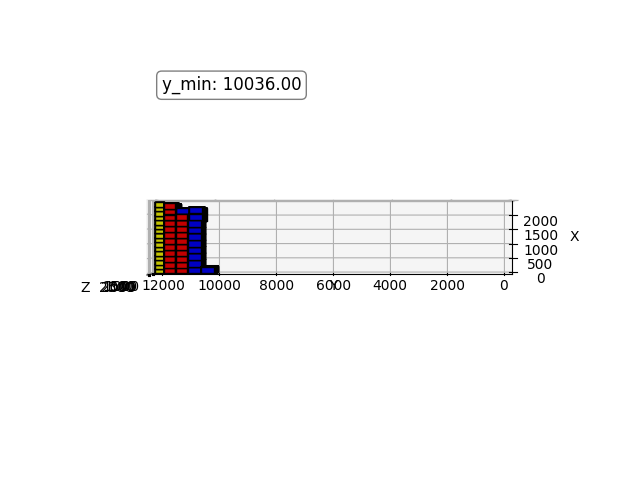
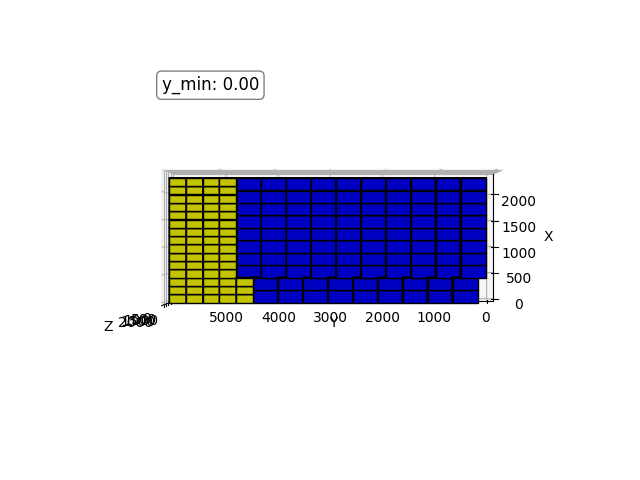
Shows Remaining Homo Strips and Boxes

Changed region(s): [[0.1562, 0.3438, 0.9062, 0.6875], [0.3438, 0.125, 0.5, 0.2188], [0.1562, 0.6562, 0.25, 0.6875]]

diff --git a/app.py b/app.py
@@ -170,7 +170,7 @@ def perform_computation(data,truck_spec):
     df = pd.DataFrame(strip_list)
     df.columns= ['Length','Width','Height','NumOfBoxesPerStrip','TotalNumStrips','Rem_Boxes','TotalCases','Marked', 'Alpha(rotation about Z-axis)','GrossWeight']
     # Drop the 'Marked' column
-    df.drop(columns=['Marked'], inplace=True)
+    # df.drop(columns=['Marked'], inplace=True)
 
     # Add 'BoxNumber' column
     df['BoxNumber'] = df.index
@@ -181,6 +181,8 @@ def perform_computation(data,truck_spec):
     # Add 'Color' column
     df['Color'] = df['BoxNumber'].map(colors)
     df = df[['BoxNumber', 'Color'] + [col for col in df.columns if col not in ['BoxNumber', 'Color']]]
+    df['Rem_Strips'] = 0
+
     # print(df)
 
 
@@ -299,8 +301,7 @@ def perform_computation(data,truck_spec):
             
 
 
-
-    def after_plac(x,y,z,end_x,box_num,strip_list,container,ax,color,curr_weight,stored_plac,row,strip_storage,prev_y,prev_row,prev_row_num,area_covered,y_min):
+    def after_plac(x,y,z,end_x,box_num,strip_list,container,ax,color,curr_weight,stored_plac,row,strip_storage,prev_y,prev_row,prev_row_num,area_covered,y_min,df):
         width_container = float(container.width)
         height_container = float(container.height)
         depth_container = float(container.length)
@@ -484,10 +485,11 @@ def perform_computation(data,truck_spec):
         prev_row[len(prev_row)-1].append(1)
         prev_row[len(prev_row)-1].append(row)
         y_min = min(y_min,y)
+        df.at[box_num, 'Rem_Strips'] =total_strips
+        df.at[box_num,'Marked'] = 0
+        # stored_plac.append([init_x,init_y,init_z,x,y,z,box_num,box_length,box_width,box_height,row])
+        return x, y, z,row,prev_y,prev_row,end_x,prev_row_num,area_covered,y_min,df
 
-
-        stored_plac.append([init_x,init_y,init_z,x,y,z,box_num,box_length,box_width,box_height,row])
-        return x, y, z,row,prev_y,prev_row,end_x,prev_row_num,area_covered,y_min
 
 
 
@@ -553,7 +555,7 @@ def perform_computation(data,truck_spec):
         ans =choose_best_dimension(x,end_x,z,strip_list,container_toFit,stored_plac)
         strip_list[ans][7] = False
         if i == 0:
-            y=length_container-strip_list[ans][0]
+            y=length_container-strip_list[ans][0]-1
             y_min = min(y_min,y)
         if y<=0:
             break
@@ -562,17 +564,22 @@ def perform_computation(data,truck_spec):
             y_min = min(y_min,y)
 
             prev_row.append([x,y])
-            x,y,z,row,prev_y,prev_row,end_x,prev_row_num,area_covered,y_min= after_plac(x,y,z,end_x,ans,strip_list,container_toFit,ax,colors[ans],curr_weight,stored_plac,row,storage_strip,prev_y,prev_row,prev_row_num,area_covered,y_min)
+            x,y,z,row,prev_y,prev_row,end_x,prev_row_num,area_covered,y_min,df= after_plac(x,y,z,end_x,ans,strip_list,container_toFit,ax,colors[ans],curr_weight,stored_plac,row,storage_strip,prev_y,prev_row,prev_row_num,area_covered,y_min,df)
         else:
             if(i!=0 and row==0):
                 y = y-1+prev_row[len(prev_row)-1][4]-strip_list[ans][0]
             prev_row.append([x,y])
-            x,y,z,row,prev_y,prev_row,end_x,prev_row_num,area_covered,y_min= after_plac(x,y,z,end_x,ans,strip_list,container_toFit,ax,colors[ans],curr_weight,stored_plac,row,storage_strip,prev_y,prev_row,prev_row_num,area_covered,y_min)
-
-    filename_final = create_bottom_view(ax,y_min)
-
+            x,y,z,row,prev_y,prev_row,end_x,prev_row_num,area_covered,y_min,df= after_plac(x,y,z,end_x,ans,strip_list,container_toFit,ax,colors[ans],curr_weight,stored_plac,row,storage_strip,prev_y,prev_row,prev_row_num,area_covered,y_min,df)
     if y_min <0:
         y_min = 0
+    filename_final = create_bottom_view(ax,y_min)
+
+
+    for i in range(len(df)):
+        if df.at[i,'Marked']==1:
+            df.at[i,'Rem_Strips'] = df.at[i,'TotalNumStrips']
+    # print(df)
+    df.drop(columns=['Marked'], inplace=True)
     # print("y_min",y_min)
     # print("Efficiency",round(area_covered/((container_toFit.length-y_min)*container_toFit.width),2))
     # print("for homogenous end coordinates, ",x,y,z)
@@ -683,10 +690,6 @@ def load_backend_function():
 
 
 
-    # print(container_toFit.length)
-
-    ## Creating simple strips (all of same type of boxes.)
-
     def remBoxes(box_set,strip_list):
         rem_boxes = []
         num_of_strips_per_boxType=[]
@@ -721,7 +724,6 @@ def load_backend_function():
     df = pd.DataFrame(strip_list)
     df.columns= ['Length','Width','Height','NumOfBoxesPerStrip','TotalNumStrips','Rem_Boxes','TotalCases','Marked', 'Alpha(rotation about Z-axis)','GrossWeight']
     # Drop the 'Marked' column
-    df.drop(columns=['Marked'], inplace=True)
 
     # Add 'BoxNumber' column
     df['BoxNumber'] = df.index
@@ -732,6 +734,7 @@ def load_backend_function():
     # Add 'Color' column
     df['Color'] = df['BoxNumber'].map(colors)
     df = df[['BoxNumber', 'Color'] + [col for col in df.columns if col not in ['BoxNumber', 'Color']]]
+    df['Rem_Strips'] = 0
     # print(df)
 
 
@@ -851,7 +854,7 @@ def load_backend_function():
 
 
 
-    def after_plac(x,y,z,end_x,box_num,strip_list,container,ax,color,curr_weight,stored_plac,row,strip_storage,prev_y,prev_row,prev_row_num,area_covered,y_min):
+    def after_plac(x,y,z,end_x,box_num,strip_list,container,ax,color,curr_weight,stored_plac,row,strip_storage,prev_y,prev_row,prev_row_num,area_covered,y_min,df):
         width_container = float(container.width)
         height_container = float(container.height)
         depth_container = float(container.length)
@@ -1035,10 +1038,10 @@ def load_backend_function():
         prev_row[len(prev_row)-1].append(1)
         prev_row[len(prev_row)-1].append(row)
         y_min = min(y_min,y)
-
-
-        stored_plac.append([init_x,init_y,init_z,x,y,z,box_num,box_length,box_width,box_height,row])
-        return x, y, z,row,prev_y,prev_row,end_x,prev_row_num,area_covered,y_min
+        df.at[box_num, 'Rem_Strips'] =total_strips
+        df.at[box_num,'Marked'] = 0
+        # stored_plac.append([init_x,init_y,init_z,x,y,z,box_num,box_length,box_width,box_height,row])
+        return x, y, z,row,prev_y,prev_row,end_x,prev_row_num,area_covered,y_min,df
 
 
 
@@ -1093,6 +1096,10 @@ def load_backend_function():
         #     continue
         # print("iteration: ",i)
         # print("Perm",perms[i])
+        # if len(perms)!=0:
+        #     if y <0:
+        #         y_min = min(y,y_min)
+        #         break
         stored_plac = []
         storage_strip=[]
         area_covered = 0
@@ -1139,14 +1146,14 @@ def load_backend_function():
                 y_min = min(y_min,y)
                 prev_row.append([x,y])
                 storage_strip.append([x,y])
-                x,y,z,row,prev_y,prev_row,end_x,prev_row_num,area_covered,y_min= after_plac(x,y,z,end_x,perms[i][j],strip_list,container_toFit,ax,colors[perms[i][j]],curr_weight,stored_plac,row,storage_strip,prev_y,prev_row,prev_row_num,area_covered,y_min)
+                x,y,z,row,prev_y,prev_row,end_x,prev_row_num,area_covered,y_min,df= after_plac(x,y,z,end_x,perms[i][j],strip_list,container_toFit,ax,colors[perms[i][j]],curr_weight,stored_plac,row,storage_strip,prev_y,prev_row,prev_row_num,area_covered,y_min,df)
             else:
                 if(j!=0 and row==0):
                     y = y-1+prev_row[len(prev_row)-1][4]-strip_list[perms[i][j]][0]
                 y_min = min(y_min,y)
                 prev_row.append([x,y])
                 storage_strip.append([x,y])
-                x,y,z,row,prev_y,prev_row,end_x,prev_row_num,area_covered,y_min= after_plac(x,y,z,end_x,perms[i][j],strip_list,container_toFit,ax,colors[perms[i][j]],curr_weight,stored_plac,row,storage_strip,prev_y,prev_row,prev_row_num,area_covered,y_min)
+                x,y,z,row,prev_y,prev_row,end_x,prev_row_num,area_covered,y_min,df= after_plac(x,y,z,end_x,perms[i][j],strip_list,container_toFit,ax,colors[perms[i][j]],curr_weight,stored_plac,row,storage_strip,prev_y,prev_row,prev_row_num,area_covered,y_min,df)
 
  
         if y_min <0:
@@ -1157,11 +1164,16 @@ def load_backend_function():
     
     max_efficiency3 = max(all_y_min)
     max_index3 = all_y_min.index(max_efficiency3)
-    print("Least Y occupied:", max_efficiency3)
-    print("Iteration Number (0-indexed):", max_index3)
+    # print("Least Y occupied:", max_efficiency3)
+    # print("Iteration Number (0-indexed):", max_index3)
     iteration_number= max_index3
+    for i in range(len(df)):
+        if df.at[i,'Marked']==1:
+            df.at[i,'Rem_Strips'] = df.at[i,'TotalNumStrips']
+    df.drop(columns=['Marked'], inplace=True)
 
-    df_html = df.to_html() 
+
+    df_html = df.to_html()  
 
     response = {
     'show_optimal_solution': True,  # Set this to True if you want to display the optimal solution
